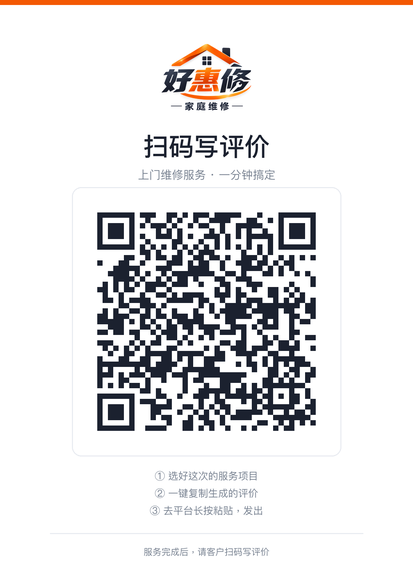
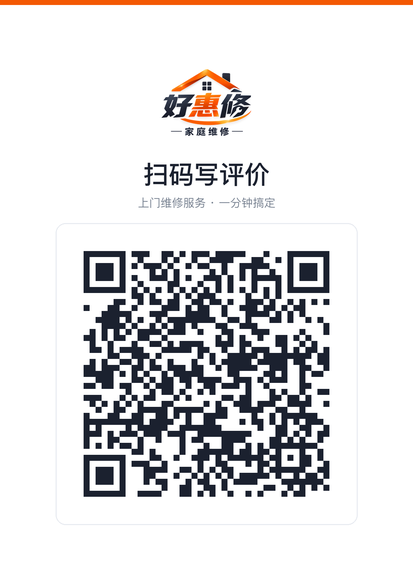
顶栏右侧换成品牌语「好惠修守护你的家居生活」，去掉顶部说明行；二维码去掉下方小字、二维码放大

Changed region(s): [[0.2034, 0.0619, 0.8136, 0.8969], [0.3487, 0.9278, 0.6683, 0.9588]]

diff --git a/index.html b/index.html
@@ -44,18 +44,15 @@ body{
 @media (prefers-reduced-motion:reduce){.topbar:before{animation:none}}
 .topbar:after{content:"";position:absolute;left:0;right:0;bottom:0;height:2px;z-index:2;
   background:linear-gradient(90deg,var(--brand),var(--brand2) 42%,rgba(243,88,3,0) 100%)}
-.topbar .wrap{position:relative;z-index:1}
-.logo{height:76px;width:auto;display:block;position:relative;z-index:2}
+.topbar .wrap{position:relative;z-index:1;display:flex;align-items:center;justify-content:space-between;gap:14px}
+.logo{height:76px;width:auto;display:block;position:relative;z-index:2;flex:0 0 auto}
+.slogan{font-size:14px;letter-spacing:1.2px;line-height:1.55;text-align:right;color:var(--head-fg);opacity:.85;position:relative;z-index:2}
 /* 右侧装饰：品牌光晕 + 两道细弧（纯装饰，无文字） */
 .topbar .wrap:after{content:"";position:absolute;right:-16px;top:50%;width:200px;height:200px;margin-top:-100px;
   border-radius:50%;pointer-events:none;
   background:radial-gradient(circle at 62% 50%,rgba(243,88,3,.17),rgba(243,88,3,.05) 46%,transparent 72%)}
-.topbar .wrap:before{content:"";position:absolute;right:-34px;top:50%;width:236px;height:236px;margin-top:-118px;
-  border:1.5px solid rgba(243,88,3,.16);border-left-color:transparent;border-bottom-color:transparent;
-  border-radius:50%;pointer-events:none}
 .only-dark{display:none}
 @media (prefers-color-scheme:dark){.only-light{display:none}.only-dark{display:block}}
-.lead{color:var(--muted);font-size:13.5px;line-height:1.75;margin:16px 2px 14px}
 .card{background:var(--card);border:1px solid var(--line);border-radius:var(--r);box-shadow:var(--shadow);padding:16px;margin-bottom:14px}
 .row{margin-bottom:16px}
 .row:last-child{margin-bottom:0}
@@ -128,10 +125,10 @@ textarea{resize:vertical;min-height:62px;line-height:1.5}
   <div class="wrap">
     <img class="logo only-light" src="assets/logo-on-light.png" alt="好惠修 家庭维修">
     <img class="logo only-dark" src="assets/logo-on-dark.png" alt="好惠修 家庭维修">
+    <span class="slogan">好惠修守护你的家居生活</span>
   </div>
 </div>
 <div class="wrap">
-  <p class="lead">按这次上门服务的实际情况勾选，生成几条可以直接发出去的顾客评价。</p>
 
   <div class="card">
     <div class="row">

diff --git a/qr/make_qr.py b/qr/make_qr.py
@@ -39,18 +39,12 @@ d.rectangle([0, 0, W, 14], fill=BRAND)
 
 lh = 200
 lg = logo.resize((int(logo.width * lh / logo.height), lh), Image.LANCZOS)
-im.paste(lg, ((W - lg.width) // 2, 132), lg)
-ctr("扫码写评价", 386, f(76, 4), DARK)
-ctr("上门维修服务 · 一分钟搞定", 500, f(34, 0), GREY)
+im.paste(lg, ((W - lg.width) // 2, 208), lg)
+ctr("扫码写评价", 470, f(76, 4), DARK)
+ctr("上门维修服务 · 一分钟搞定", 584, f(34, 0), GREY)
 
-SIDE = draw_qr(d, (W - (n + 6) * 16) // 2, 590, 16)
-d.rounded_rectangle([(W - SIDE) // 2 - 28, 562, (W + SIDE) // 2 + 28, 590 + SIDE + 28], 28, outline=LINE, width=3)
-
-y = 590 + SIDE + 66
-for t in ["① 选好这次的服务项目", "② 一键复制生成的评价", "③ 去平台长按粘贴，发出"]:
-    ctr(t, y, f(30, 0), GREY); y += 52
-d.line([150, H - 146, W - 150, H - 146], fill=LINE, width=3)
-ctr("服务完成后，请客户扫码写评价", H - 110, f(27, 0), GREY)
+SIDE = draw_qr(d, (W - (n + 6) * 18) // 2, 700, 18)
+d.rounded_rectangle([(W - SIDE) // 2 - 30, 670, (W + SIDE) // 2 + 30, 700 + SIDE + 30], 30, outline=LINE, width=3)
 im.save("扫码卡片.png", dpi=(300, 300))
 im.resize((W // 3, H // 3), Image.LANCZOS).save("扫码卡片_预览.png")
 
@@ -63,12 +57,11 @@ sd.rectangle([0, 0, S, 12], fill=BRAND)
 
 slh = 140
 slg = logo.resize((int(logo.width * slh / logo.height), slh), Image.LANCZOS)
-sq.paste(slg, ((S - slg.width) // 2, 70), slg)
-sctr("扫码写评价", 236, f(52, 4), DARK)
+sq.paste(slg, ((S - slg.width) // 2, 86), slg)
+sctr("扫码写评价", 252, f(52, 4), DARK)
 
-SIDE2 = draw_qr(sd, (S - (n + 6) * 13) // 2, 340, 13)
-sd.rounded_rectangle([(S - SIDE2) // 2 - 24, 316, (S + SIDE2) // 2 + 24, 340 + SIDE2 + 24], 24, outline=LINE, width=3)
-sctr("微信扫一扫 / 相机扫码", 340 + SIDE2 + 40, f(26, 1), DARK)
+SIDE2 = draw_qr(sd, (S - (n + 6) * 13) // 2, 372, 13)
+sd.rounded_rectangle([(S - SIDE2) // 2 - 24, 346, (S + SIDE2) // 2 + 24, 372 + SIDE2 + 24], 24, outline=LINE, width=3)
 sq.resize((S // 2, S // 2), Image.LANCZOS).save("方形版_预览.png")
 sq.save("方形版_1080.png", dpi=(300, 300))
 
